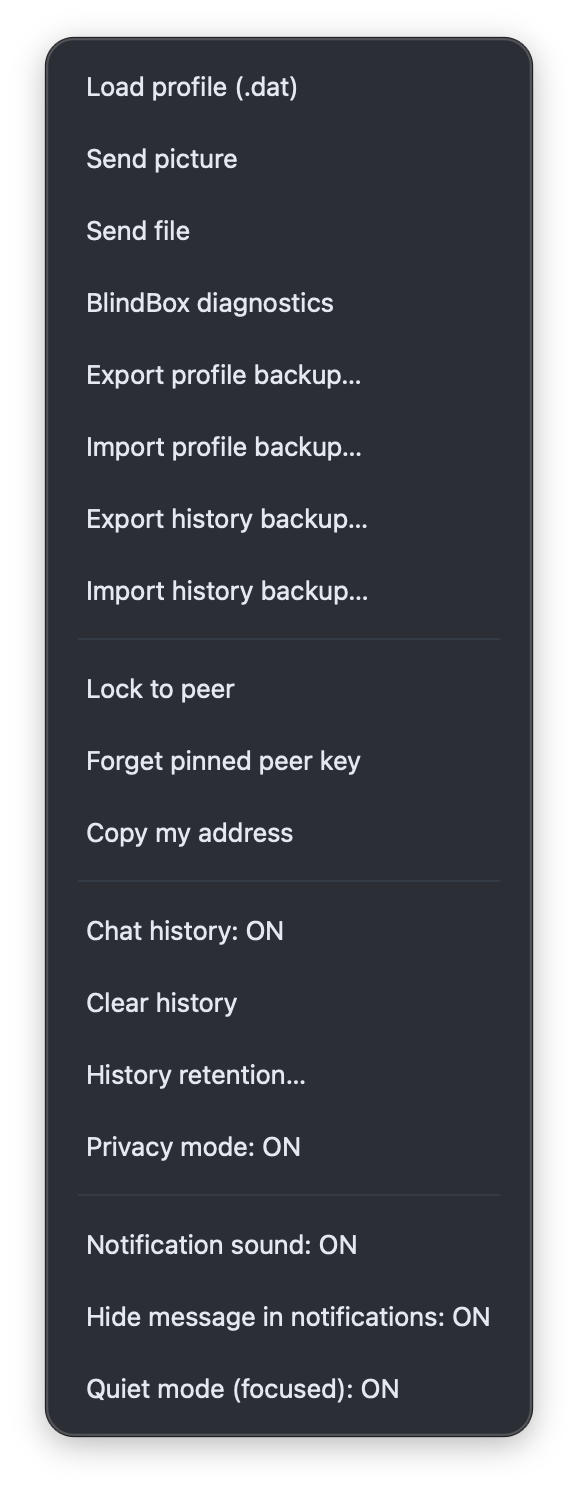
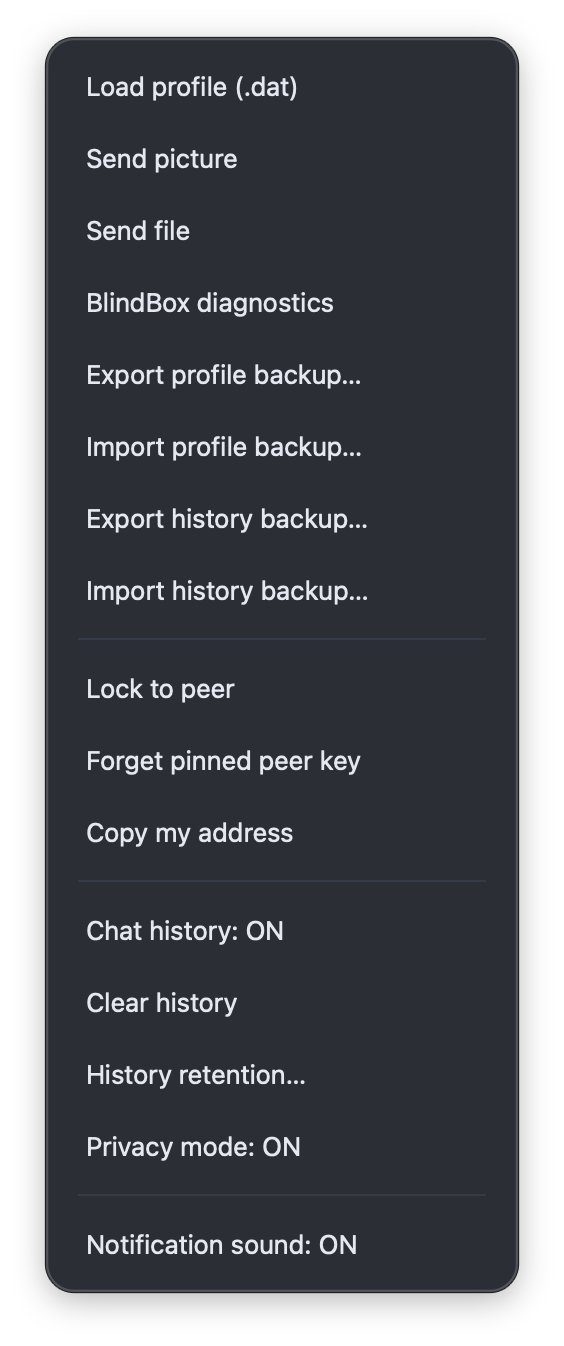
refactor(gui): меню уведомлений — только Privacy mode и звук
Убраны отдельные пункты Hide message и Quiet mode; их поведение задаётся
только через Privacy mode. При OFF сбрасываются связанные флаги в prefs.
Миграция: если раньше был hide или quiet без privacy_mode, включается Privacy.
Обновлены MANUAL_EN/RU, скриншот меню и чеклист в test_gui_unread_smoke.

Made-with: Cursor

diff --git a/i2pchat/gui/main_qt.py b/i2pchat/gui/main_qt.py
@@ -3926,6 +3926,15 @@ class ChatWindow(QtWidgets.QMainWindow):
         self._history_flush_timer.setInterval(60_000)
         self._history_flush_timer.timeout.connect(self._flush_history)
         self._privacy_mode_enabled = load_privacy_mode_enabled()
+        # Privacy mode задаёт hide_body + quiet (focused); отдельных пунктов меню больше нет.
+        if not self._privacy_mode_enabled:
+            if load_notify_hide_body() or load_notify_quiet_mode():
+                self._privacy_mode_enabled = True
+                save_privacy_mode_enabled(True)
+        self._notify_hide_body = bool(self._privacy_mode_enabled)
+        self._notify_quiet_mode = bool(self._privacy_mode_enabled)
+        save_notify_hide_body(self._notify_hide_body)
+        save_notify_quiet_mode(self._notify_quiet_mode)
 
         # диагностическая строка статуса
         self.status_label = QtWidgets.QLabel("Status: initializing", self)
@@ -4421,30 +4430,20 @@ class ChatWindow(QtWidgets.QMainWindow):
         self._privacy_mode_toggle_btn = self.more_actions_popup.add_action(
             self._privacy_mode_toggle_label(), self._on_toggle_privacy_mode_clicked
         )
+        self._privacy_mode_toggle_btn.setToolTip(
+            "When ON: tray toasts hide message text (title may still name the peer); "
+            "while this window is focused, tray toasts and notification sounds are suppressed "
+            "(including for other chats). Notification sound item only controls sound when "
+            "Privacy mode is OFF or the window is not focused."
+        )
         self.more_actions_popup.add_separator()
         self._notify_sound_enabled = load_notify_sound_enabled()
-        self._notify_hide_body = load_notify_hide_body()
-        self._notify_quiet_mode = load_notify_quiet_mode()
         self._notify_sound_toggle_btn = self.more_actions_popup.add_action(
             self._notify_sound_toggle_label(),
             self._on_toggle_notify_sound_clicked,
         )
         self._notify_sound_toggle_btn.setToolTip(
             "When off, notification sounds are never played (custom sound path is kept)."
-        )
-        self._notify_hide_body_toggle_btn = self.more_actions_popup.add_action(
-            self._notify_hide_body_toggle_label(),
-            self._on_toggle_notify_hide_body_clicked,
-        )
-        self._notify_hide_body_toggle_btn.setToolTip(
-            "When on, the tray message hides the message text; the title may still name the peer."
-        )
-        self._notify_quiet_toggle_btn = self.more_actions_popup.add_action(
-            self._notify_quiet_toggle_label(),
-            self._on_toggle_notify_quiet_clicked,
-        )
-        self._notify_quiet_toggle_btn.setToolTip(
-            "While the app window is focused, suppress tray toasts and sounds (other chats included)."
         )
         self.chat_view.cancelTransferRequested.connect(self.on_cancel_transfer)
         self.chat_view.imageOpenRequested.connect(self.on_image_open_requested)
@@ -6763,16 +6762,6 @@ class ChatWindow(QtWidgets.QMainWindow):
             else "Notification sound: OFF"
         )
 
-    def _notify_hide_body_toggle_label(self) -> str:
-        return (
-            "Hide message in notifications: ON"
-            if self._notify_hide_body
-            else "Hide message in notifications: OFF"
-        )
-
-    def _notify_quiet_toggle_label(self) -> str:
-        return "Quiet mode (focused): ON" if self._notify_quiet_mode else "Quiet mode (focused): OFF"
-
     def _privacy_mode_toggle_label(self) -> str:
         return "Privacy mode: ON" if self._privacy_mode_enabled else "Privacy mode: OFF"
 
@@ -6781,18 +6770,6 @@ class ChatWindow(QtWidgets.QMainWindow):
         self._notify_sound_enabled = not self._notify_sound_enabled
         save_notify_sound_enabled(self._notify_sound_enabled)
         self._notify_sound_toggle_btn.setText(self._notify_sound_toggle_label())
-
-    @QtCore.pyqtSlot()
-    def _on_toggle_notify_hide_body_clicked(self) -> None:
-        self._notify_hide_body = not self._notify_hide_body
-        save_notify_hide_body(self._notify_hide_body)
-        self._notify_hide_body_toggle_btn.setText(self._notify_hide_body_toggle_label())
-
-    @QtCore.pyqtSlot()
-    def _on_toggle_notify_quiet_clicked(self) -> None:
-        self._notify_quiet_mode = not self._notify_quiet_mode
-        save_notify_quiet_mode(self._notify_quiet_mode)
-        self._notify_quiet_toggle_btn.setText(self._notify_quiet_toggle_label())
 
     @QtCore.pyqtSlot()
     def _on_toggle_privacy_mode_clicked(self) -> None:
@@ -6804,11 +6781,16 @@ class ChatWindow(QtWidgets.QMainWindow):
             self._notify_quiet_mode = True
             save_notify_hide_body(True)
             save_notify_quiet_mode(True)
-            self._notify_hide_body_toggle_btn.setText(self._notify_hide_body_toggle_label())
-            self._notify_quiet_toggle_btn.setText(self._notify_quiet_toggle_label())
-            self.handle_system("Privacy mode enabled: notification previews hidden, focused toasts muted.")
+            self.handle_system(
+                "Privacy mode ON: tray hides message text; while this window is focused, "
+                "no tray toasts or notification sounds."
+            )
         else:
-            self.handle_system("Privacy mode disabled.")
+            self._notify_hide_body = False
+            self._notify_quiet_mode = False
+            save_notify_hide_body(False)
+            save_notify_quiet_mode(False)
+            self.handle_system("Privacy mode OFF.")
 
     @QtCore.pyqtSlot()
     def _configure_history_retention(self) -> None:

diff --git a/tests/test_gui_unread_smoke.py b/tests/test_gui_unread_smoke.py
@@ -9,12 +9,12 @@ Manual QA checklist (two peers, notifications / 0.6.5 behavior)
 2. Put I2PChat in the background (another app focused). Receive a message for peer B
    (e.g. offline/BlindBox delivery for B, or connect to B after switching): expect tray title
    to reference B and window title suffix ``(N)`` for unread.
-3. Focus I2PChat with Quiet mode OFF: while viewing chat A, a new message for A should not
+3. Focus I2PChat with Privacy mode OFF: while viewing chat A, a new message for A should not
    toast (same chat). Switch the address field to B; behavior should follow B as active key.
-4. Turn Quiet mode ON (focused): expect no tray toasts and no notification sound while the
-   window is focused, for any peer.
-5. Turn Quiet mode OFF, minimize the window, receive a message for the connected peer:
-   expect tray toast and sound according to sound / hide-body toggles.
+4. Turn Privacy mode ON: expect no tray toasts and no notification sound while the window is
+   focused, for any peer (and hidden message body in tray when toasts do show).
+5. Turn Privacy mode OFF, minimize the window, receive a message for the connected peer:
+   expect tray toast and sound according to the Notification sound toggle.
 """
 
 from __future__ import annotations

diff --git a/docs/MANUAL_RU.md b/docs/MANUAL_RU.md
@@ -101,9 +101,7 @@
   - **Clear history**;
   - **History retention…**;
   - **Privacy mode: ON/OFF**;
-  - **Notification sound: ON/OFF**;
-  - **Hide message in notifications: ON/OFF**;
-  - **Quiet mode (focused): ON/OFF**.
+  - **Notification sound: ON/OFF**.
 
 Все элементы панели имеют одинаковую высоту и выстроены в строку.
 
@@ -125,10 +123,8 @@
 - **Chat history: ON/OFF** — включить/выключить сохранение локальной истории (см. раздел 4.11); подпись в меню показывает текущее состояние.
 - **Clear history** — удалить локальный файл истории для текущего пира.
 - **History retention…** — лимиты: максимум сообщений на peer и максимальный возраст в днях до записи зашифрованной истории.
-- **Privacy mode: ON/OFF** — быстрый пресет приватности (скрытие превью в уведомлениях и связанное «тихое» поведение); подпись показывает состояние.
-- **Notification sound: ON/OFF** — звук входящих; при OFF путь к кастомному звуку сохраняется.
-- **Hide message in notifications: ON/OFF** — при ON в трее не показывается текст сообщения (заголовок может содержать имя/адрес пира).
-- **Quiet mode (focused): ON/OFF** — пока окно в фокусе, не показывать тосты и не проигрывать звук (в т.ч. для других чатов).
+- **Privacy mode: ON/OFF** — при ON: в трее скрывается текст сообщения (заголовок может содержать имя/адрес пира); пока это окно в фокусе — без тостов в трее и без звука уведомлений (в т.ч. для других чатов). При OFF эти эффекты отключены. Подпись показывает состояние.
+- **Notification sound: ON/OFF** — звук входящих, когда он должен проигрываться; при OFF путь к кастомному звуку сохраняется (при активном Privacy mode звук в фокусе всё равно подавляется).
 
 #### 4.2. Поле адреса пира
 
@@ -399,7 +395,7 @@ GUI‑клиент использует системный трей (`QSystemTra
 
 #### 5.2. Звуковые уведомления
 
-- В меню **`⋯`** доступны переключатели **Notification sound**, **Hide message in notifications** и **Quiet mode (focused)** наряду с описанным ниже поведением.
+- В меню **`⋯`** доступны переключатели **Privacy mode** и **Notification sound** наряду с описанным ниже поведением.
 
 - Если модуль `QtMultimedia` доступен:
   - создаётся `QSoundEffect`;

diff --git a/docs/MANUAL_EN.md b/docs/MANUAL_EN.md
@@ -101,9 +101,7 @@ The actions bar is located **at the bottom of the window**, below the message in
   - **Clear history**;
   - **History retention…**;
   - **Privacy mode: ON/OFF**;
-  - **Notification sound: ON/OFF**;
-  - **Hide message in notifications: ON/OFF**;
-  - **Quiet mode (focused): ON/OFF**.
+  - **Notification sound: ON/OFF**.
 
 All controls in the bar have the same height and are laid out in a single row.
 
@@ -125,10 +123,8 @@ Clicking the **`⋯`** button opens a popup menu with profile and connection act
 - **Chat history: ON/OFF** — enable/disable local history persistence (see section 4.11); the menu label reflects the current state.
 - **Clear history** — delete the local history file for the current peer.
 - **History retention…** — configure maximum messages per peer and maximum age in days before encrypted history is persisted.
-- **Privacy mode: ON/OFF** — quick preset that tightens local privacy (hidden notification previews and related quiet behaviour); label shows current state.
-- **Notification sound: ON/OFF** — enable or mute the incoming-message sound path (custom sound path is kept when off).
-- **Hide message in notifications: ON/OFF** — when on, tray toasts omit message body text (title may still name the peer).
-- **Quiet mode (focused): ON/OFF** — while the window is focused, suppress tray toasts and sounds (including for other chats).
+- **Privacy mode: ON/OFF** — when ON: tray toasts omit message body text (title may still name the peer); while this window is focused, tray toasts and notification sounds are suppressed (including for other chats). When OFF, those behaviours are disabled. Label shows current state.
+- **Notification sound: ON/OFF** — enable or mute the incoming-message sound path when it would otherwise play (custom sound path is kept when off; Privacy mode can still mute sound while the window is focused).
 
 #### 4.2. Peer address field
 
@@ -399,7 +395,7 @@ sound notifications (`QSoundEffect`) for incoming messages.
 
 #### 5.2. Sound notifications
 
-- The **`⋯`** menu exposes **Notification sound**, **Hide message in notifications**, and **Quiet mode (focused)** toggles alongside the behaviour described below.
+- The **`⋯`** menu exposes **Privacy mode** and **Notification sound** toggles alongside the behaviour described below.
 
 - If the `QtMultimedia` module is available:
   - a `QSoundEffect` instance is created;
